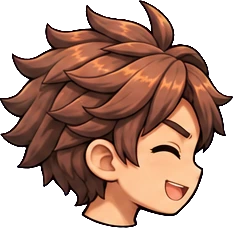
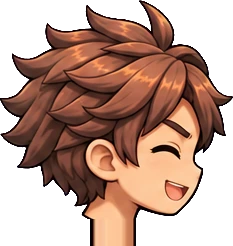
v145 rig neck: neck extended under the collar (no cut line), collar redrawn over it, head slightly higher
Claude-Session: https://claude.ai/code/session_01WFxeRSjWyWqshF2Heo8Ngk

diff --git a/rig.js b/rig.js
@@ -11,9 +11,9 @@
   //  limb: top pivot (shoulder/hip), joint = elbow/knee y, end = fist/ankle y, s = scale
   const SKEL = {
     hero2: {
-      dir: 'rig/hero2/', ver: 143,
+      dir: 'rig/hero2/', ver: 145,
       torso: { img: 'torso', pivot: [125, 262], s: 0.82,                 // pivot = waist
-               neck: [150, 30], shoulderF: [66, 78], shoulderB: [150, 76], hipF: [146, 280], hipB: [108, 280] },
+               neck: [148, 20], collar: [40, 80], shoulderF: [66, 78], shoulderB: [150, 76], hipF: [146, 280], hipB: [108, 280] },
       head:  { img: 'head', pivot: [118, 214], s: 1.16 },
       armF:  { img: 'armF', pivot: [50, 40], joint: 150, end: 282, s: 0.66 },
       armB:  { img: 'armB', pivot: [48, 40], joint: 150, end: 280, s: 0.66 },
@@ -168,6 +168,8 @@
     L('armF', T.shoulderF, P.armF, P.elbowF);
     const H = sk.head, fimg = P.face && sk.faces[P.face] && ok(I(sk.faces[P.face])) ? sk.faces[P.face] : H.img;
     ctx.setTransform(B.at(T.neck, H.s, true).rotate(-P.torso * 0.6 + P.head).translate(-H.pivot[0], -H.pivot[1])); ctx.drawImage(I(fimg), 0, 0);
+    // the collar goes back over the bottom of the neck, so the neck sits INSIDE the shirt instead of on top of it
+    if (T.collar) { const [cy0, cy1] = T.collar, TI = I(T.img); ctx.setTransform(B.torsoM); ctx.drawImage(TI, 0, cy0, TI.naturalWidth, cy1 - cy0, 0, cy0, TI.naturalWidth, cy1 - cy0); }
     ctx.restore();
     return true;
   }

diff --git a/walk-test.html b/walk-test.html
@@ -1,7 +1,7 @@
 <!DOCTYPE html><html><head><meta charset="utf-8"><meta name="viewport" content="width=device-width,initial-scale=1"><title>walk test</title>
 <style>html,body{margin:0;background:#5a6a5a;overflow:hidden}canvas{display:block;width:100vw;height:100vh}</style></head><body>
 <canvas id="cv"></canvas>
-<script src="rig.js?v=144"></script>
+<script src="rig.js?v=145"></script>
 <script>
 const cv=document.getElementById('cv'), ctx=cv.getContext('2d');
 let W,H; function rs(){W=cv.width=innerWidth*devicePixelRatio;H=cv.height=innerHeight*devicePixelRatio;} rs(); addEventListener('resize',rs);

diff --git a/rig-test.html b/rig-test.html
@@ -1,7 +1,7 @@
 <!DOCTYPE html><html><head><meta charset="utf-8"><title>rig test</title>
 <style>html,body{margin:0;background:#5a6a5a}canvas{display:block}</style></head><body>
 <canvas id="cv" width="1600" height="900"></canvas>
-<script src="rig.js?v=143c"></script>
+<script src="rig.js?v=145"></script>
 <script>
 const cv=document.getElementById('cv'), ctx=cv.getContext('2d');
 const qs=new URLSearchParams(location.search), mode=qs.get('mode')||'grid';

diff --git a/battle-test.html b/battle-test.html
@@ -33,7 +33,7 @@
 <div id="ui"></div>
 <div id="rot">หมุนจอเป็นแนวนอน</div>
 <script src="tower-view.js?v=127&motion=140"></script>
-<script src="rig.js?v=143c"></script>
+<script src="rig.js?v=145"></script>
 <script src="battle.js?v=141"></script>
 <script src="battle-view.js?v=143"></script>
 <script>
